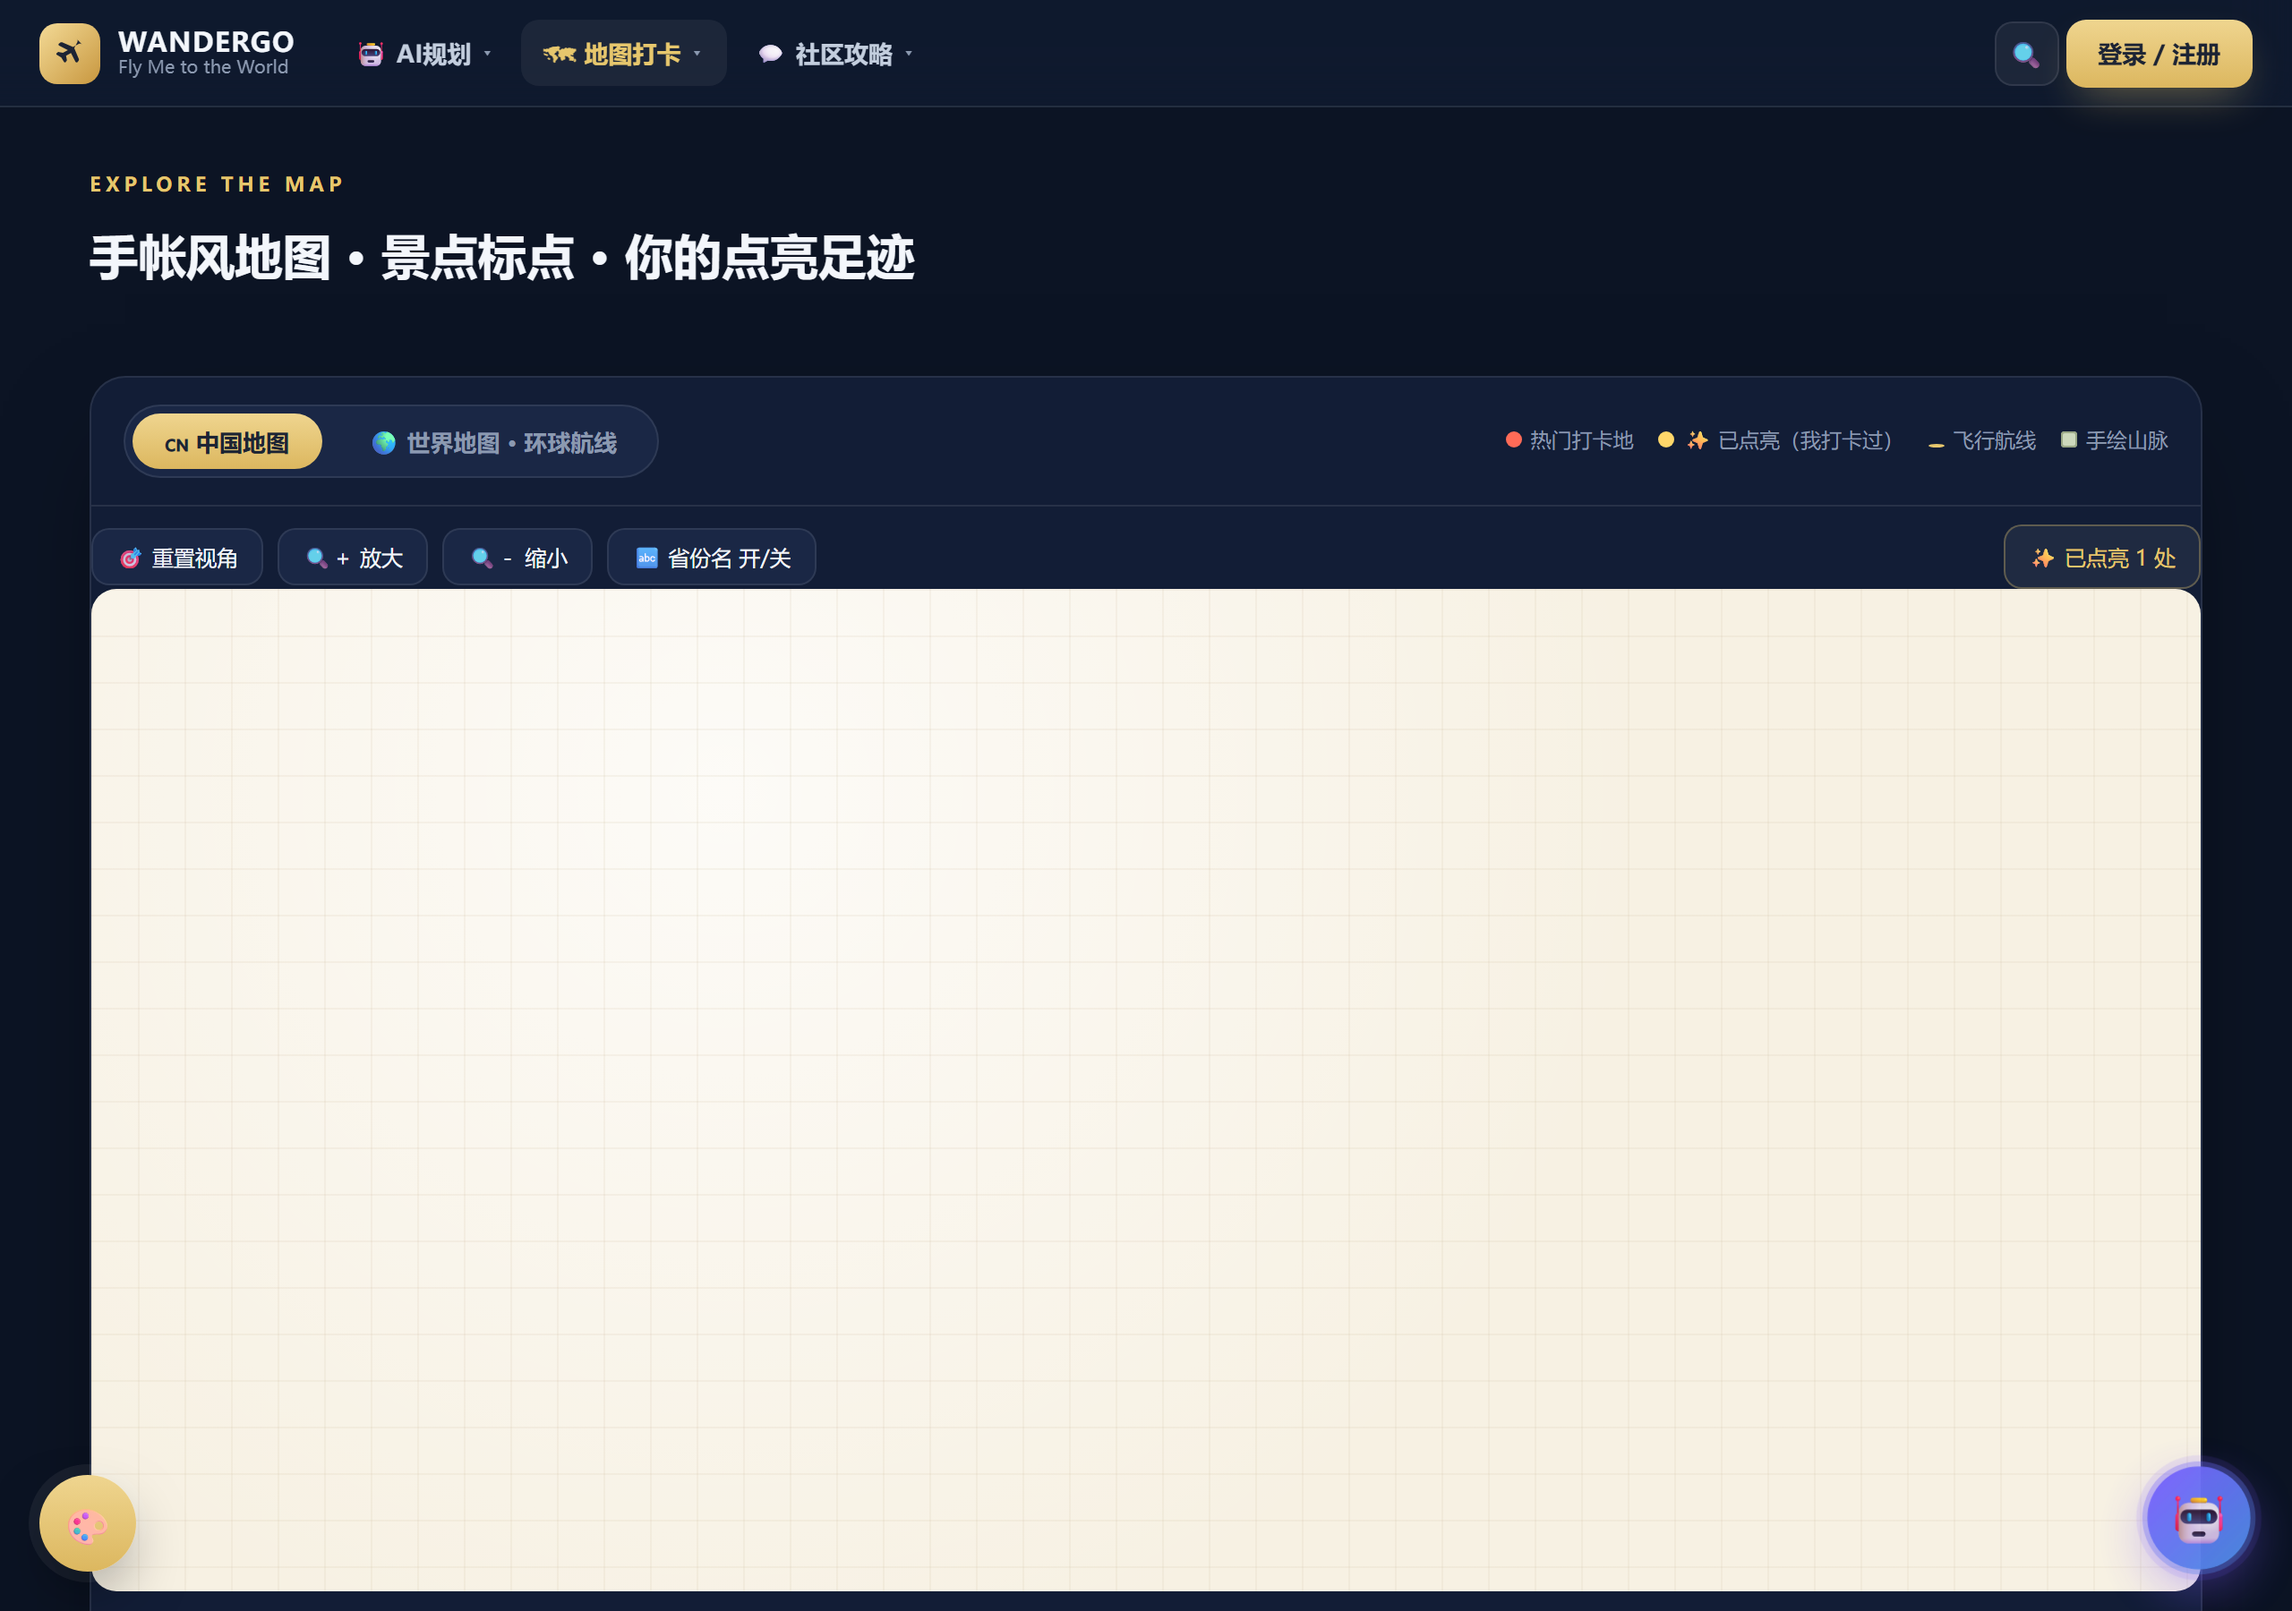
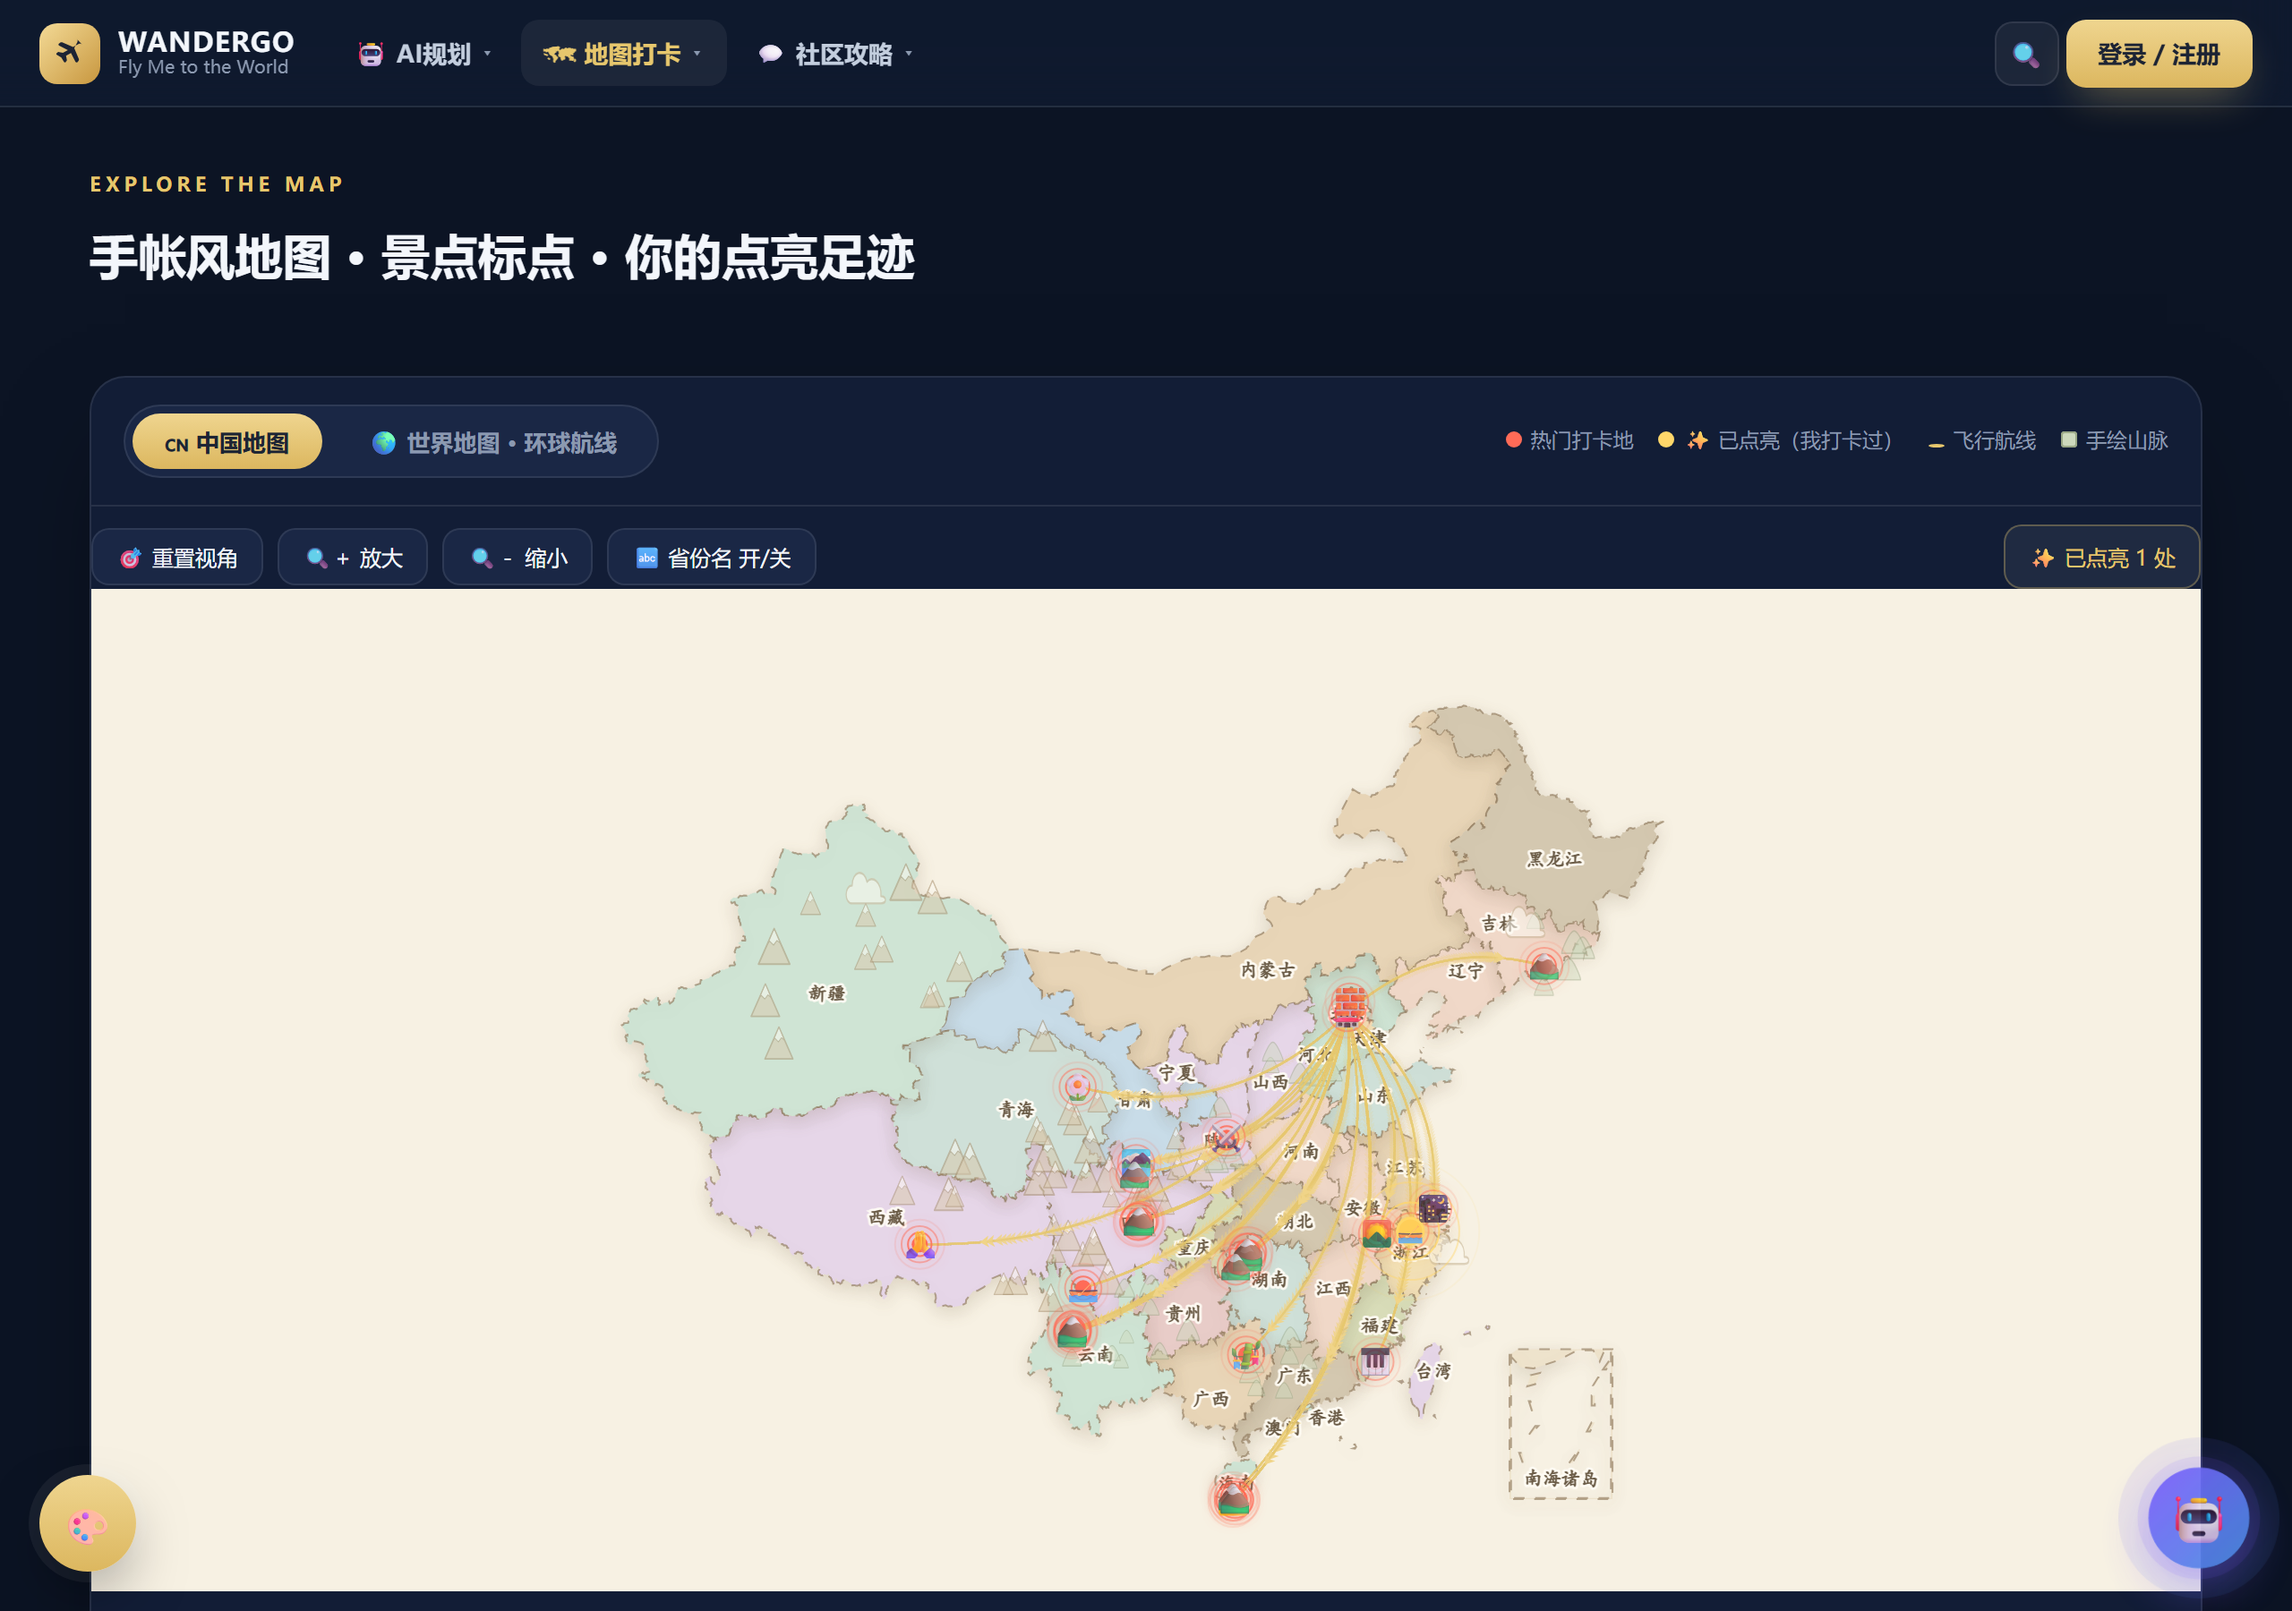
chore(auto): sync 11-01 14:04

Changed region(s): [[0.25, 0.4356, 0.7188, 0.9644], [0.9375, 0.9022, 1.0, 0.9956], [0.6562, 0.9022, 0.6875, 0.9333]]

diff --git a/index.html b/index.html
@@ -97,7 +97,14 @@
       <p>输入出发日期、返程日期与目的地城市，一键生成景点、交通比价、预算拆解与雨天备案的模块化行程。</p>
       <a class="fn-link" href="ai.html">进入 AI 规划 →</a>
     </div>
-    <div class="shot-box"><span>界面预览图（待补充）</span></div>
+    <figure class="shot-card" data-shot="ai" tabindex="0" role="button" aria-label="放大查看 AI 规划界面">
+      <div class="shot-frame">
+        <img src="img/shots/ai-1.png" alt="AI 规划界面" loading="lazy">
+        <span class="shot-anim"><i></i><i></i><i></i></span>
+        <span class="shot-zoom">🔍 点击放大</span>
+      </div>
+      <figcaption><b>AI 规划</b><span>模块化行程 · 交通比价 · 预算拆解</span></figcaption>
+    </figure>
   </div>
 </section>
 
